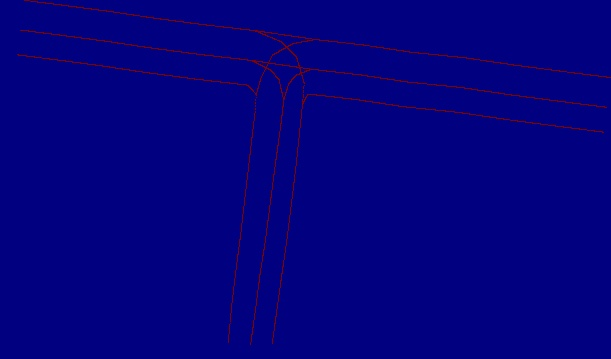
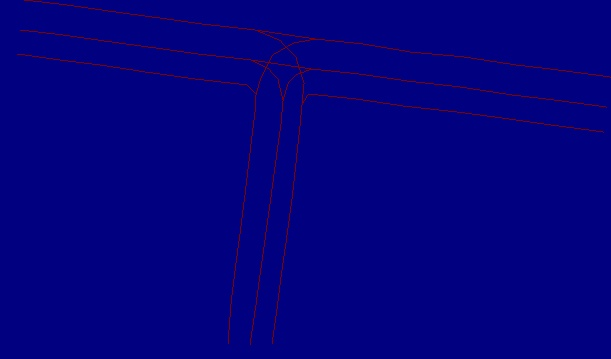
fixed lane interpolation issue

diff --git a/src/planning/road_network/src/road_map.cpp b/src/planning/road_network/src/road_map.cpp
@@ -103,15 +103,41 @@ void RoadMap::GenerateDenseGrid(int32_t pixel_per_meter)
         for (const auto &pt : points_right)
             dense_grid_->SetValueAtCoordinate(pt.x, pt.y, 1.0);
     }
+
+    // auto bound = lane_bounds_[-39200];
+    // std::vector<DenseGridPixel> points_left = GenerateLanePoints(bound.first, resolution);
+    // // std::vector<DenseGridPixel> points_right = GenerateLanePoints(bound.second, resolution);
+    // for (const auto &pt : points_left)
+    //     dense_grid_->SetValueAtCoordinate(pt.x, pt.y, 1.0);
+    // // for (const auto &pt : points_right)
+    // //     dense_grid_->SetValueAtCoordinate(pt.x, pt.y, 1.0);
 }
 
 std::vector<DenseGridPixel> RoadMap::GenerateLanePoints(const PolyLine &line, double resolution)
 {
+    std::vector<DenseGridPixel> grid_points;
     std::vector<DenseGridPixel> interpolated_points;
 
-    for (int i = 0; i < line.points_.size() - 1; ++i)
+    // for (int i = 0; i < line.points_.size() - 1; ++i)
+    // {
+    //     std::vector<DenseGridPixel> pts = InterpolateGridPixelPoints(line.points_[i], line.points_[i + 1], resolution);
+
+    //     interpolated_points.insert(interpolated_points.end(), pts.begin(), pts.end());
+    // }
+
+    for (const auto &pt : line.points_)
+    // for (int i = 0; i < 3; ++i)
     {
-        std::vector<DenseGridPixel> pts = InterpolateGridPixelPoints(line.points_[i], line.points_[i + 1], resolution);
+        // auto pt = line.points_[i];
+        auto gpt = coordinate_.ConvertToGridPixel(CartCooridnate(pt.x, pt.y));
+        // std::cout << "line point: " << gpt.x << " , " << gpt.y << std::endl;
+        grid_points.push_back(gpt);
+    }
+
+    for (int i = 0; i < grid_points.size() - 1; ++i)
+    // for (int i = 0; i < 2; ++i)
+    {
+        std::vector<DenseGridPixel> pts = InterpolateGridPixelPoints(grid_points[i], grid_points[i + 1]);
 
         interpolated_points.insert(interpolated_points.end(), pts.begin(), pts.end());
     }
@@ -164,4 +190,103 @@ std::vector<DenseGridPixel> RoadMap::InterpolateGridPixelPoints(PolyLinePoint pl
     }
 
     return points;
+}
+
+std::vector<DenseGridPixel> RoadMap::InterpolateGridPixelPoints(DenseGridPixel pt1, DenseGridPixel pt2)
+{
+    std::vector<DenseGridPixel> points;
+
+    int32_t x_err = pt2.x - pt1.x;
+    int32_t y_err = pt2.y - pt1.y;
+
+    std::cout << "xerr: " << x_err << " , y_err: " << y_err << std::endl;
+
+    DenseGridPixel start_pt, end_pt;
+
+    // if vertical line
+    if (x_err == 0)
+    {
+        // find lower point
+        if (y_err > 0)
+        {
+            start_pt = pt1;
+            end_pt = pt2;
+        }
+        else
+        {
+            start_pt = pt2;
+            end_pt = pt1;
+        }
+
+        for (int32_t y = start_pt.y; y <= end_pt.y; ++y)
+            points.emplace_back(pt1.x, y);
+    }
+    // if horizontal line
+    else if (y_err == 0)
+    {
+        // find left point
+        if (x_err > 0)
+        {
+            start_pt = pt1;
+            end_pt = pt2;
+        }
+        else
+        {
+            start_pt = pt2;
+            end_pt = pt1;
+        }
+        for (double x = start_pt.x; x <= end_pt.x; ++x)
+            points.emplace_back(x, pt1.y);
+    }
+    // otherwise
+    else
+    {
+        double k = static_cast<double>(y_err) / x_err;
+
+        if (std::abs(x_err) > std::abs(y_err))
+        {
+            if (x_err > 0)
+            {
+                start_pt = pt1;
+                end_pt = pt2;
+            }
+            else
+            {
+                start_pt = pt2;
+                end_pt = pt1;
+            }
+
+            for (double x = start_pt.x; x <= end_pt.x; ++x)
+                points.emplace_back(x, pt1.y + (x - pt1.x) * k);
+        }
+        else
+        {
+            if (y_err > 0)
+            {
+                start_pt = pt1;
+                end_pt = pt2;
+            }
+            else
+            {
+                start_pt = pt2;
+                end_pt = pt1;
+            }
+
+            for (double y = start_pt.y; y <= end_pt.y; ++y)
+                points.emplace_back((y - pt1.y) / k + pt1.x, y);
+        }
+    }
+
+    return points;
+}
+
+std::vector<LLet::lanelet_ptr_t> RoadMap::OccupiedLanelet(CartCooridnate pos)
+{
+    point_with_id_t geo_pt = coordinate_.CreateLaneletPoint(pos);
+    BoundingBox world(geo_pt);
+
+    auto lanelets = lanelet_map_->query(world);
+    std::cout << "Number of lanelets found: " << lanelets_.size() << std::endl;
+
+    return lanelets;
 }

diff --git a/src/planning/road_network/include/road_network/road_coordinate.hpp b/src/planning/road_network/include/road_network/road_coordinate.hpp
@@ -36,10 +36,10 @@ namespace librav
 template <typename T>
 struct XYCooridnate
 {
-  XYCooridnate(T px, T py) : x(px), y(py){};
+  XYCooridnate(T px = 0, T py = 0) : x(px), y(py){};
 
-  T x = 0;
-  T y = 0;
+  T x;
+  T y;
 };
 
 using CartCooridnate = XYCooridnate<double>;
@@ -47,10 +47,10 @@ using DenseGridPixel = XYCooridnate<int32_t>;
 
 struct GeoCoordinate
 {
-  GeoCoordinate(double lat, double lon) : latitude(lat), longitude(lon){};
+  GeoCoordinate(double lat = 0, double lon = 0) : latitude(lat), longitude(lon){};
 
-  double latitude = 0.0;
-  double longitude = 0.0;
+  double latitude;
+  double longitude;
 };
 
 /////////////////////////////////////////////////////////////
@@ -62,6 +62,8 @@ public:
 
   void SetOrigin(LLet::point_with_id_t origin);
   void SetDenseGridSize(int32_t x, int32_t y, int32_t ppm);
+
+  LLet::point_with_id_t CreateLaneletPoint(CartCooridnate input);
 
   CartCooridnate ConvertToCartesian(LLet::point_with_id_t input);
 

diff --git a/src/planning/road_network/include/road_network/road_map.hpp b/src/planning/road_network/include/road_network/road_map.hpp
@@ -33,6 +33,8 @@ public:
 
   void GenerateDenseGrid(int32_t pixel_per_meter);
 
+  std::vector<LLet::lanelet_ptr_t> OccupiedLanelet(CartCooridnate pos);
+
 private:
   std::unique_ptr<LLet::LaneletMap> lanelet_map_;
   std::vector<LLet::lanelet_ptr_t> lanelets_;
@@ -48,7 +50,7 @@ private:
   const int32_t ref_lanelet_id_ = -1;
   LLet::point_with_id_t world_origin_;
 
-  std::vector<DenseGridPixel> GenerateLanePoints(const PolyLine &line, double resolution = 0.01);
+  std::vector<DenseGridPixel> GenerateLanePoints(const PolyLine &line, double resolution);
   std::vector<DenseGridPixel> InterpolateGridPixelPoints(PolyLinePoint plt1, PolyLinePoint plt2, double resolution);
   std::vector<DenseGridPixel> InterpolateGridPixelPoints(DenseGridPixel pt1, DenseGridPixel pt2);
 };

diff --git a/src/planning/road_network/tests/test_roadmap.cpp b/src/planning/road_network/tests/test_roadmap.cpp
@@ -11,8 +11,10 @@ int main()
     RoadMap map("/home/rdu/Workspace/librav/data/road_map/intersection_single_lane_full.osm");
 
     stopwatch::StopWatch timer;
-    map.GenerateDenseGrid(5);
-    std::cout <<"generated grid in " << timer.toc() << " seconds" << std::endl;
+    map.GenerateDenseGrid(15);
+    std::cout << "generated grid in " << timer.toc() << " seconds" << std::endl;
+
+    map.OccupiedLanelet(CartCooridnate(60, 60));
 
     LightViz::ShowMatrixAsColorMap(map.dense_grid_->GetGridMatrix(true), "roadnetwork", true);
 

diff --git a/src/planning/road_network/src/road_coordinate.cpp b/src/planning/road_network/src/road_coordinate.cpp
@@ -26,6 +26,13 @@ void RoadCoordinateFrame::SetDenseGridSize(int32_t x, int32_t y, int32_t ppm)
     pixel_per_meter_ = ppm;
 }
 
+LLet::point_with_id_t RoadCoordinateFrame::CreateLaneletPoint(CartCooridnate input)
+{
+    double output_lat, output_lon;
+    std::tie(output_lat, output_lon) = local_coordinate_.xy2ll(input.x, input.y);
+    return std::make_tuple(output_lat, output_lon, -1);
+}
+
 GeoCoordinate RoadCoordinateFrame::ConvertToGeographic(CartCooridnate input)
 {
     double output_lat, output_lon;
